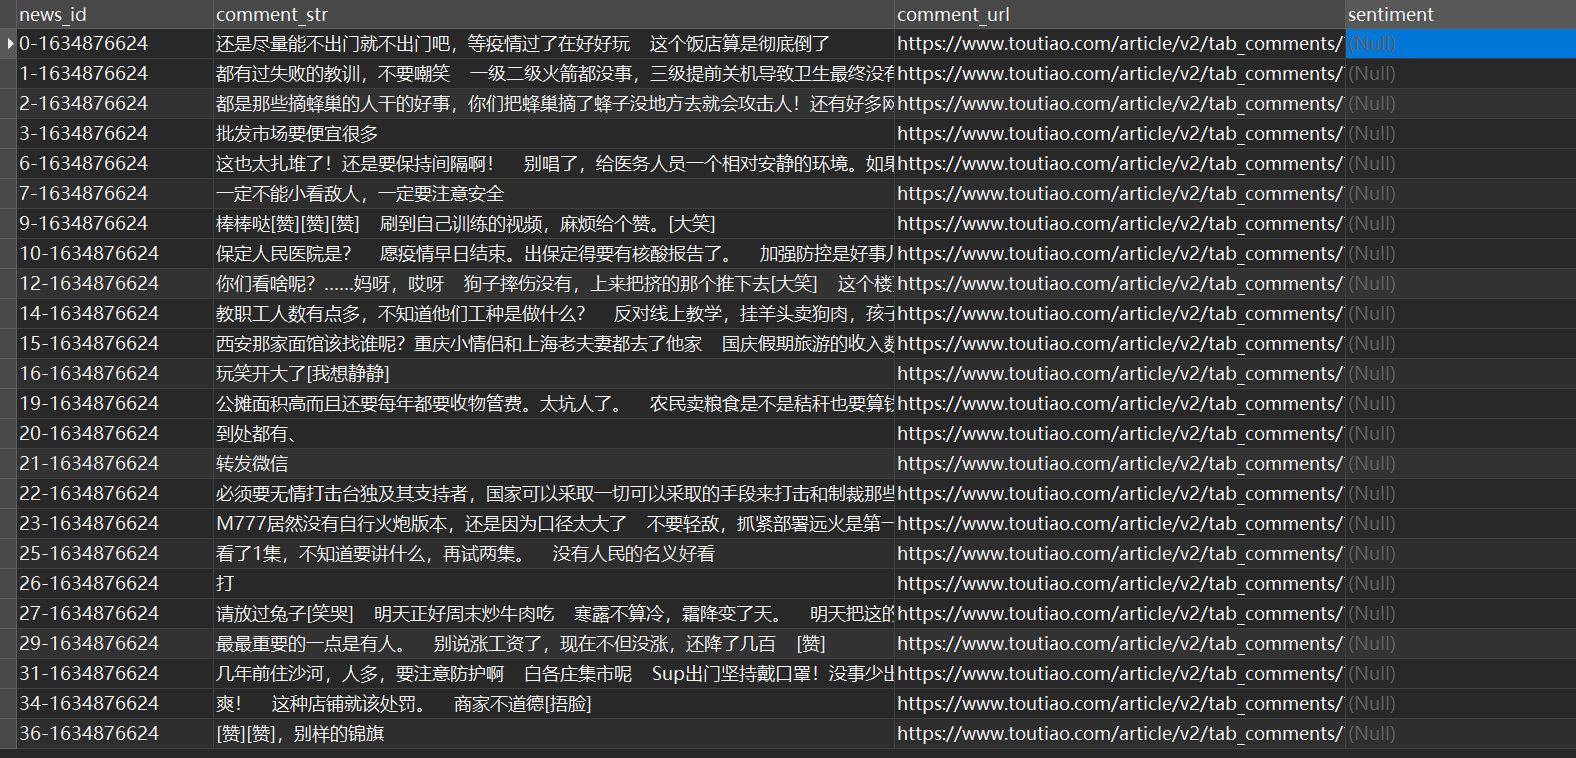
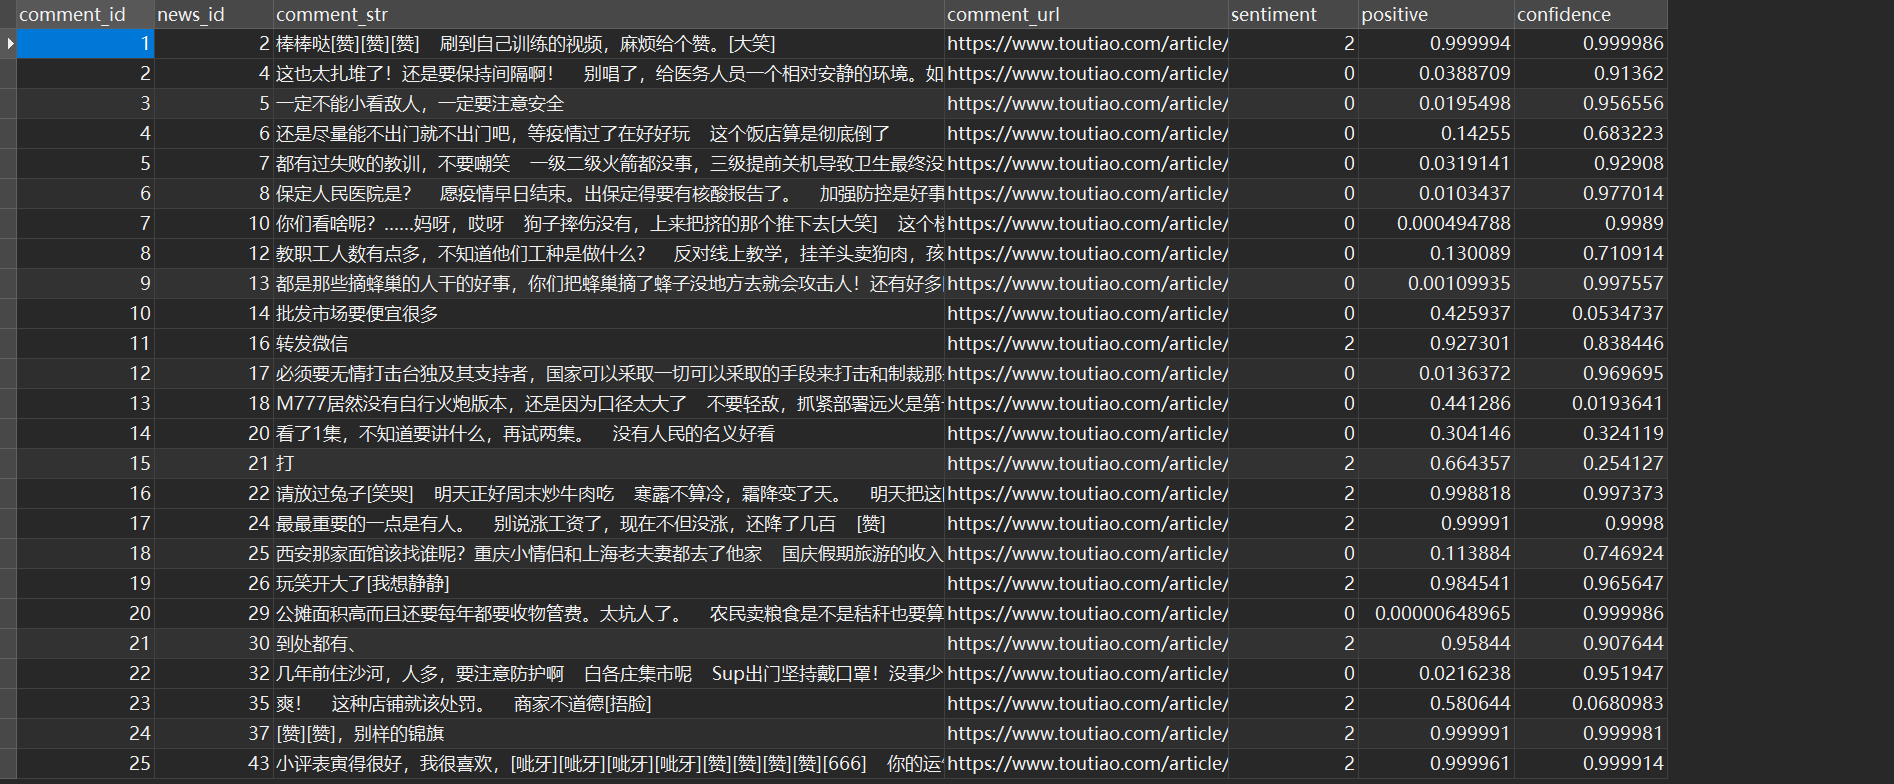
修改数据库，情感分析数据库操作

Changed region(s): [[0.0, 0.0, 1.0, 1.0]]

diff --git a/util/newsdb.py b/util/newsdb.py
@@ -1,5 +1,8 @@
-from util.database import db, cursor
+from database import db, cursor
 from model.News import News
+from model.Comment import Comment
+# from Comment import Comment
+# from News import News
 
 
 # 插入新闻列表
@@ -39,7 +42,7 @@ def add_comments(commentList):
         print(e)
 
 
-# get all the categories
+# 获得所有分类
 def get_categories():
     try:
         # the sql statement for insert
@@ -72,11 +75,6 @@ def get_news_byCaid(categoryId):
         print(e)
 
 
-# refresh auto_increament
-def refresh_auto():
-    cursor.execute("ALTER TABLE news AUTO_INCREMENT = 1")
-
-
 # 获得所有未进行分类的新闻
 def get_news():
     try:
@@ -106,6 +104,61 @@ def update_news(newsList):
         for news in newsList:
             cursor.execute(
                 sql, (news.tag, news.keywordStr, news.news_id))
+            db.commit()
+    except Exception as e:
+        print(e)
+
+
+# 获得所有未经过情感分析的评论
+def get_comments_without():
+    try:
+        # sql语句
+        sql = "SELECT * FROM comment WHERE sentiment is null or TRIM(sentiment) = '' "
+        cursor.execute(sql)
+        nodes = cursor.fetchall()
+        # 初始化列表
+        commentList = []
+        for i in range(len(nodes)):
+            comment = Comment(nodes[i][0], nodes[i][1], nodes[i][2])
+            commentList.append(comment)
+        return commentList
+    except Exception as e:
+        print(e)
+
+
+# 将情感分析过后的comment进行更新
+def update_comments(commentList):
+    try:
+        # the sql statement for insert
+        sql = ("UPDATE comment "
+               "SET sentiment = %s, positive = %s, confidence = %s "
+               "WHERE news_id = %s")
+        for comment in commentList:
+            cursor.execute(
+                sql, (comment.sentiment, comment.positive, comment.confidence, comment.news_id))
+            db.commit()
+    except Exception as e:
+        print(e)
+
+
+# 将情感分析过后的comment进行更新
+def database_edits():
+    try:
+        # the sql statement for insert
+        sql = ("SELECT * FROM comment")
+        cursor.execute(sql)
+        nodes = cursor.fetchall()
+        # 初始化列表
+        newsList = []
+        for i in range(len(nodes)):
+            news = News(nodes[i][1], None, None, None, None,
+                        None, None, None, None, None, None, None, i+1)
+            newsList.append(news)
+
+        for news in newsList:
+            sql0 = ("UPDATE comment "
+                    "SET comment_id = %s WHERE news_id = %s")
+            cursor.execute(sql0, (news.id, news.news_id))
             db.commit()
     except Exception as e:
         print(e)

diff --git a/get_sentiment.py b/get_sentiment.py
@@ -1,5 +1,7 @@
+import time
 import json
 import requests
+from util.newsdb import get_comments_without, update_comments
 
 # client_id 为官网获取的AK， client_secret 为官网获取的SK
 # 获取access_token
@@ -20,7 +22,6 @@ def txt_mask(mystr, mytoken):
     url = 'https://aip.baidubce.com/rpc/2.0/nlp/v1/sentiment_classify?charset=UTF-8&access_token=' + mytoken
     results = requests.post(url=url, headers=header, data=data).json()
     results = results['items'][0]
-    print(results)
     return results
 
 
@@ -32,5 +33,20 @@ def process_bar(percent):
     print(bar)
 
 
-myStr = '味道不错，确实不算太辣，适合不能吃辣的人。就在长江边上，抬头就能看到长江的风景。鸭肠、黄鳝都比较新鲜。'
-process_bar(txt_mask(myStr, mytoken)['positive_prob'])
+# 从数据库中取出未曾进行情感分析的评论对象列表
+commentList = get_comments_without()
+
+
+# 循环commentList对象列表
+# 然后对每个对象进行情感分析，并且将结果放入对象
+for i, comment in enumerate(commentList):
+    result = txt_mask(comment.comment_str, mytoken)
+    commentList[i].sentiment = result['sentiment']
+    commentList[i].positive = result['positive_prob']
+    commentList[i].confidence = result['confidence']
+    print(f'分析了第{i}个评论')
+    time.sleep(0.3)
+
+
+# 更新数据库comment表
+update_comments(commentList)

diff --git a/scrape_news.py b/scrape_news.py
@@ -108,6 +108,7 @@ def scrape_channel(channel_id, max_behot_time):
         add_news(newsList)
         add_comments(commentList)
 
+        # 休息一会儿，防止被怀疑
         time.sleep(1)
 
 

diff --git a/README.md b/README.md
@@ -34,7 +34,8 @@
  - 新闻(News)表：`除了主键news_id其余皆可为空`
    | Name          | Type     | Length | Not Null | Key | Comment                    |
    | ------------- | -------- | ------ | -------- | --- | -------------------------- |
-   | news_id       | varchar  | 255    | √        | √   | 新闻编号(爬取时间戳加序号) |
+   | news_id       | int      | /      | √        | √   | 新闻编号(自动递增)         |
+   | created       | int      | /      | /        | /   | 10位时间戳(本次爬取时间戳) |
    | title         | varchar  | 255    | /        | /   | 新闻标题                   |
    | tag           | varchar  | 255    | /        | /   | 新闻分类                   |
    | abstract      | varchar  | 1000   | /        | /   | 新闻概要/新闻主体          |
@@ -52,14 +53,15 @@
 - 评论表(Comment)`将新闻表的news_id作为外键`
   | Name        | Type    | Length | Not Null | Key | Comment            |
   | ----------- | ------- | ------ | -------- | --- | ------------------ |
-  | news_id     | varchar | 255    | √        | √   | 对应新闻编号       |
+  | comment_id  | int     | /      | √        | √   | 评论编号(自动递增) |
+  | news_id     | int     | /      | √        | /   | 对应新闻编号       |
   | comment_str | varchar | 620    | /        | /   | 30条评论 tab键隔开 |
   | comment_url | varchar | 255    | /        | /   | 评论api            |
   | sentiment   | binary  | 1      | /        | /   | 评论平均情感倾向   |
   | positive    | binary  | 1      | /        | /   | 正向比例           |
   | confidence  | binary  | 1      | /        | /   | 自信度             |
-- ![database image](img/news_database.png)
- ![database image](img/news_database_design.png)
+- ![database image](img/comment_database.png)
+ ![database image](img/comment_database_design.png)
 
 #### 4. 网站分析
 - 今日头条网页信息并非静态数据，而是AJAX请求的
